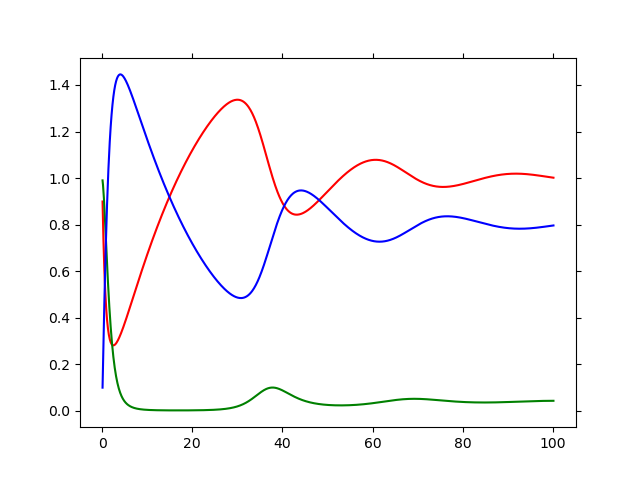
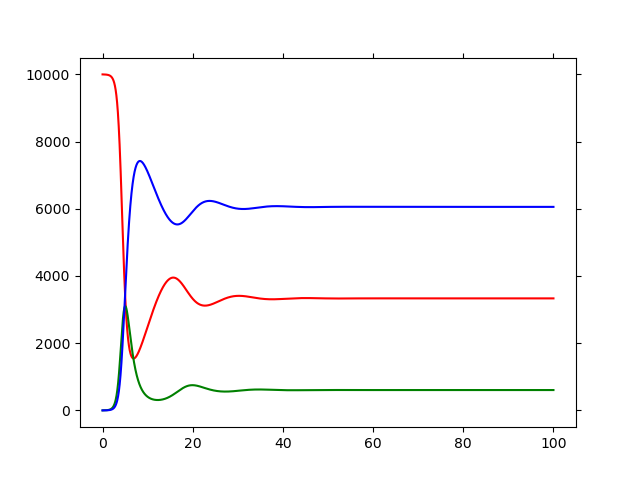
got stochastic de working

diff --git a/diffeqmodel.py b/diffeqmodel.py
@@ -1,16 +1,20 @@
 import matplotlib.pyplot as plt
+from random import *
 slist = []
 ilist = []
 rlist = []
 tlist = []
-timestep = .1
+timestep = .001
+n = 10000
 t = 0
-lambd = 1
-rho = .05
-n = 1000
-s = (n-1)/n
+lambd = 3/n
+rho = .1
+s = n-1
 i = 1
 r = 0
+scopy = s
+icopy = i
+rcopy = r
 while(t < 100):
     t += timestep
     s += (rho*r-lambd*s*i)*timestep
@@ -22,8 +26,50 @@ while(t < 100):
     tlist.append(t)
 
 plt.cla()
-#plt.xlim(tlist[-1]/3,2*tlist[-1]/3)
 plt.plot(tlist,slist, 'r')
 plt.plot(tlist,ilist, 'g')
 plt.plot(tlist,rlist, 'b')
 plt.savefig('deoutput.png')
+
+slist = []
+ilist = []
+rlist = []
+tlist = []
+t = 0
+s = scopy
+i = icopy
+r = rcopy
+
+while(t < 100):
+    posterior = rho*r + lambd*s*i + i
+    if(posterior ==0):
+        print("early break")
+        break
+    t += 1/posterior
+    rand = random()*posterior
+    if(rand < rho*r):
+        r -= 1
+        s += 1
+    elif(rand < rho*r+s*i*lambd):
+        s -= 1
+        i += 1
+    elif(rand < rho*r + s*i*lambd + i):
+        i -= 1
+        r += 1
+    else:
+        print(s)
+        print(i)
+        print(r)
+        print(rand)
+        print(posterior)
+        assert(1==0)
+    slist.append(s)
+    ilist.append(i)
+    rlist.append(r)
+    tlist.append(t)
+
+plt.cla()
+plt.plot(tlist,slist, 'r')
+plt.plot(tlist,ilist, 'g')
+plt.plot(tlist,rlist, 'b')
+plt.savefig('stochdeoutput.png')

diff --git a/neuralnetsimple.py b/neuralnetsimple.py
@@ -24,7 +24,7 @@ def checkinvariants(G,si,infected,removed,susceptible):
 removed = []
 #s = 15
 #n = s**2
-n = 5000
+n = 1000
 mu = 1
 u = 100000
 p = mu/n
